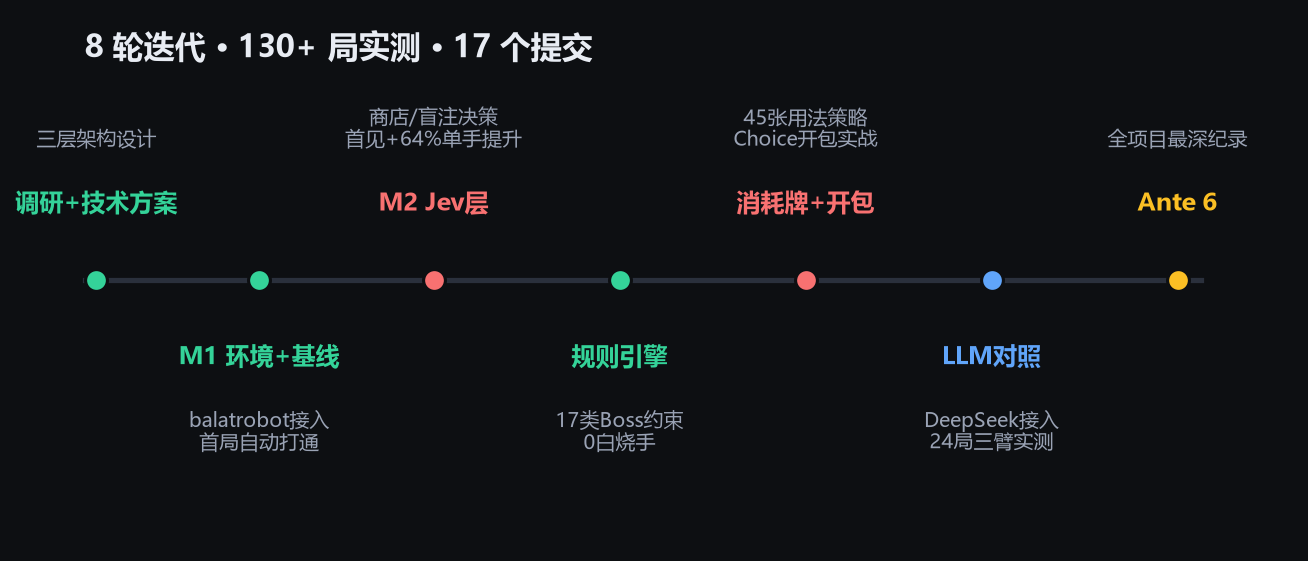
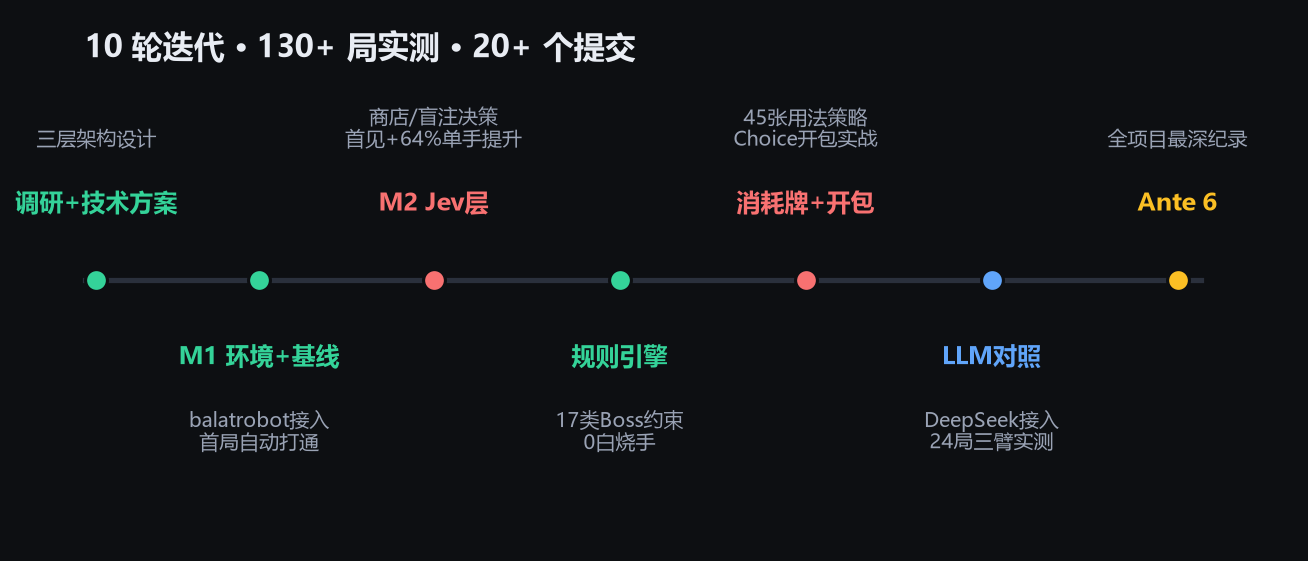
文章: 叙事化重写——新增Jev设计理念与Jevons命名彩蛋(参考文总结融入首尾), 全文去AI味(零加粗/叙事线/故事化小标题), 时间线图更新至10轮迭代

Changed region(s): [[0.0612, 0.0606, 0.4893, 0.1212]]

diff --git a/jevatro/gen_article_imgs.py b/jevatro/gen_article_imgs.py
@@ -244,7 +244,7 @@ for i, (x, t, d, col) in enumerate(ms):
             ha="center", va="bottom" if up else "top")
     ax.text(x, ty + (0.62 if up else -0.62), d, fontsize=9.5, color=MUTED,
             fontproperties=FONT, ha="center", va="bottom" if up else "top")
-ax.text(0.6, 4.6, "8 轮迭代 · 130+ 局实测 · 17 个提交", fontsize=15,
+ax.text(0.6, 4.6, "10 轮迭代 · 130+ 局实测 · 20+ 个提交", fontsize=15,
         color="#e8ecf3", fontproperties=FONT_B)
 save(fig, "08_时间线.png")
 
